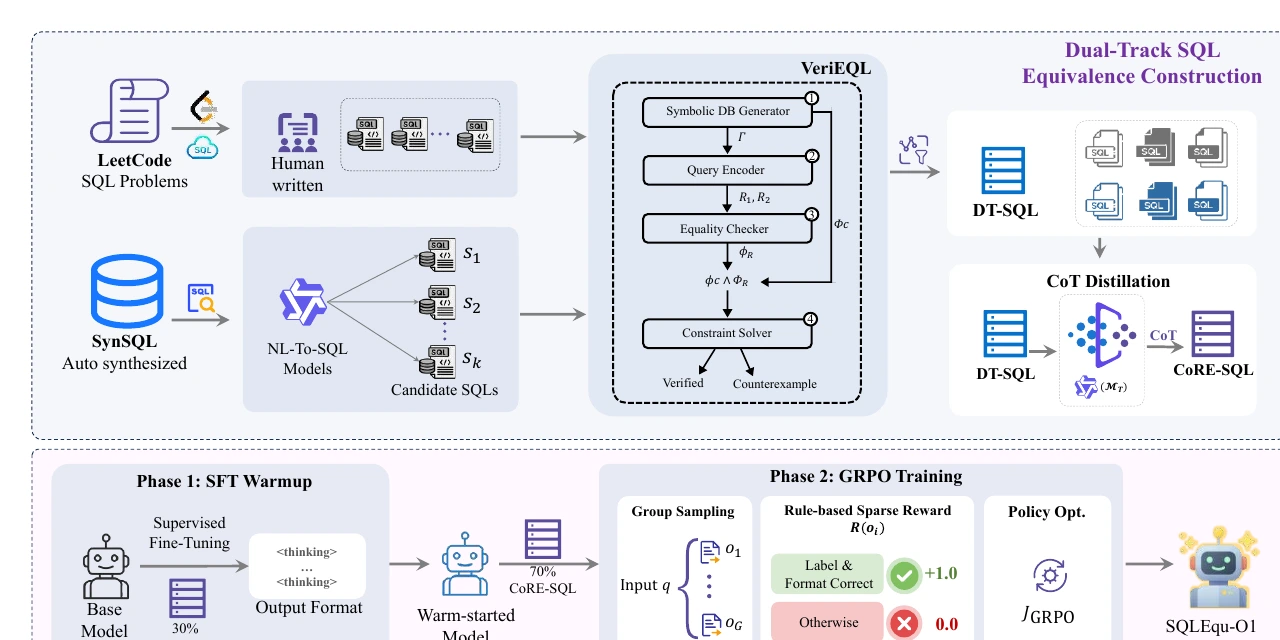
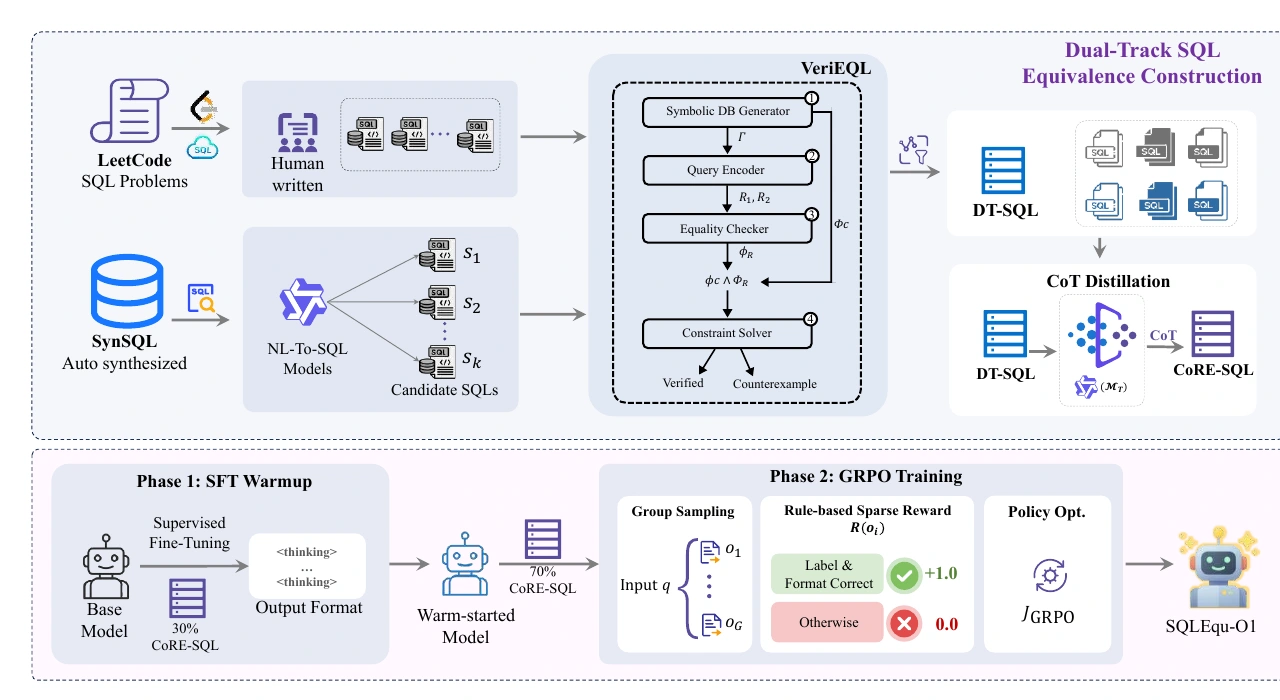
Fix SQLEq preview crop and simplify captions

diff --git a/index.html b/index.html
@@ -23,7 +23,7 @@
     })();
   </script>
   <link rel="icon" href="favicon.svg" type="image/svg+xml">
-  <link rel="stylesheet" href="styles.css?v=20260727-paper-figures-v1">
+  <link rel="stylesheet" href="styles.css?v=20260727-sqlequ-crop-v2">
 </head>
 <body class="portfolio-v3">
   <div class="page-progress" aria-hidden="true"><span></span></div>
@@ -246,7 +246,6 @@
                 <img src="public/assets/papers/sqlequ-o1-framework.webp" alt="SQLEq-O1 数据构造与两阶段训练框架" loading="lazy">
                 <span class="paper-framework-expand" aria-hidden="true"><i data-lucide="maximize-2"></i></span>
               </a>
-              <figcaption data-i18n="paper.figureCaption">方法框架图 · 摘自论文图 1</figcaption>
             </figure>
             <div class="paper-detail">
               <div><span data-i18n="detail.problem">问题</span><p data-i18n="paper.sqlequ.problem">执行测试无法证明等价，SMT 验证在复杂查询上易超时；通用大模型成本高，而轻量模型又容易依赖关键词和结构相似度形成偏置。</p></div>
@@ -270,7 +269,6 @@
                 <img src="public/assets/papers/uniql-framework.webp" alt="UniQL 跨方言基准构建流程" loading="lazy">
                 <span class="paper-framework-expand" aria-hidden="true"><i data-lucide="maximize-2"></i></span>
               </a>
-              <figcaption data-i18n="paper.figureCaption">方法框架图 · 摘自论文图 1</figcaption>
             </figure>
             <div class="paper-detail">
               <div><span data-i18n="detail.problem">问题</span><p data-i18n="paper.uniql.problem">现有 Text-to-SQL 基准高度集中于 SQLite，模型在单一方言上的成功无法说明其能否稳定迁移到 PostgreSQL、Oracle、Hive、Teradata 等真实数据库。</p></div>
@@ -297,7 +295,6 @@
                 <img src="public/assets/papers/farsql-framework.webp" alt="FAR-SQL 失效感知分层判定框架" loading="lazy">
                 <span class="paper-framework-expand" aria-hidden="true"><i data-lucide="maximize-2"></i></span>
               </a>
-              <figcaption data-i18n="paper.figureCaption">方法框架图 · 摘自论文图 1</figcaption>
             </figure>
             <div class="paper-detail">
               <div><span data-i18n="detail.problem">问题</span><p data-i18n="paper.farsql.problem">VeriEQL 的确定输出可信，但复杂聚合、嵌套和方言函数会触发超时、不支持或转换异常；直接改用模型又会丢失形式化可信边界。</p></div>
@@ -371,7 +368,7 @@
             </div>
           </div>
           <figure class="relaydesk-video-shell">
-            <figcaption><i data-lucide="play" aria-hidden="true"></i><span data-i18n="builds.relayDemo">28 秒产品演示</span></figcaption>
+            <figcaption><i data-lucide="play" aria-hidden="true"></i><span data-i18n="builds.relayDemo">产品演示视频</span></figcaption>
             <video controls playsinline preload="metadata" poster="public/assets/relaydesk-poster.webp" aria-label="RelayDesk 项目介绍视频">
               <source src="public/assets/relaydesk-demo.mp4" type="video/mp4">
             </video>
@@ -452,6 +449,6 @@
   <script src="public/vendor/gsap-3.13.0.min.js"></script>
   <script src="public/vendor/ScrollTrigger-3.13.0.min.js"></script>
   <script src="public/vendor/lucide-0.468.0.min.js"></script>
-  <script src="script.js?v=20260727-paper-figures-v1"></script>
+  <script src="script.js?v=20260727-sqlequ-crop-v2"></script>
 </body>
 </html>

diff --git a/script.js b/script.js
@@ -65,7 +65,6 @@
       "paper.sqlequ.method": "A dual-track pipeline combines real LeetCode multi-solutions with hard SynSQL pairs, all formally labeled by VeriEQL. Verification-style CoT forms a balanced 60K-pair CoRE-SQL corpus, followed by 30% SFT warm-up and 70% GRPO with sparse verifiable rewards.",
       "paper.sqlequ.result": "Qwen2.5-Coder-1.5B rises from 34.88 to 89.38 GM on LeetCode-Hard and from 44.58 to 76.77 on OOD Calcite+Spider-DAIL, pairing compact deployment cost with strong hard-case discrimination.",
       "paper.manuscript": "Manuscript under review",
-      "paper.figureCaption": "Framework overview · Extracted from Figure 1",
       "paper.uniql.lead": "The first executable benchmark to evaluate 16 SQL dialects under aligned natural-language intents, schemas, and database contents.",
       "paper.uniql.problem": "Text-to-SQL benchmarks remain dominated by SQLite. Success in one dialect does not reveal whether a model transfers reliably to PostgreSQL, Oracle, Hive, Teradata, and other production systems.",
       "paper.uniql.method": "We migrate 1,534 BIRD Dev intents to 16 dialects using database migration, SQLGlot, LLM translation, three rounds of execution-feedback reflection, rule evolution, and dual-annotator consensus, while preserving ordering and duplicate semantics.",
@@ -101,7 +100,7 @@
       "builds.relayFeature2": "Stream replies and execution progress live",
       "builds.relayFeature3": "End-to-end encryption with one-time pairing",
       "builds.relayLive": "Open mobile client",
-      "builds.relayDemo": "28-second product demo",
+      "builds.relayDemo": "Product demo video",
       "builds.todo": "My Tasks · Hello Kitty Todo",
       "builds.todoDetail": "A lightweight desktop task manager with deadline progress, smart ordering, and tray mode.",
       "builds.words": "Moyu Words",

diff --git a/styles.css b/styles.css
@@ -4531,15 +4531,6 @@ html[data-theme="dark"] .portfolio-v3 .interest-item {
   height: 16px;
 }
 
-.paper-framework figcaption {
-  margin-top: 9px;
-  color: var(--paper-accent);
-  font-family: Consolas, "SFMono-Regular", monospace;
-  font-size: 9px;
-  font-weight: 700;
-  text-transform: uppercase;
-}
-
 @media (max-width: 900px) {
   .portfolio-v3 .paper-panel {
     grid-template-areas:
